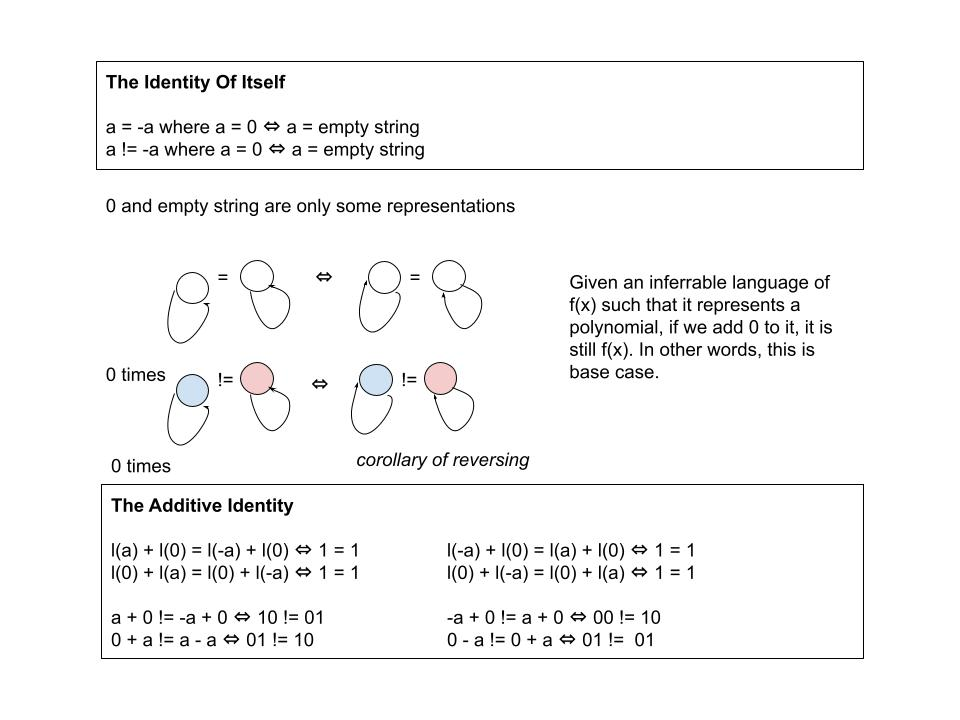
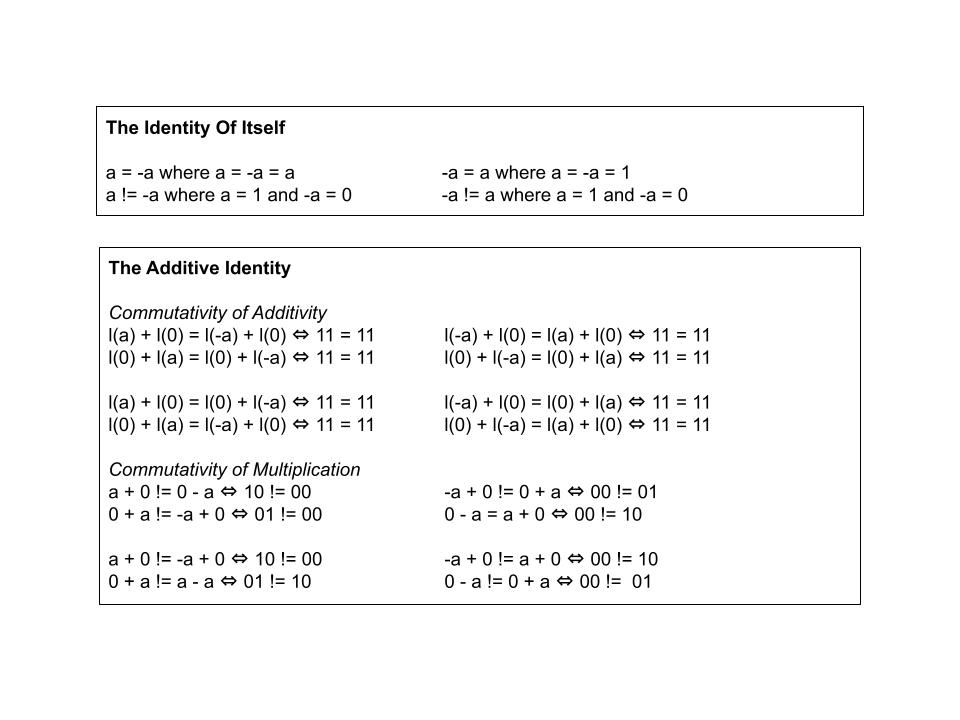
commutativity, identity, inverse, generalization

diff --git a/README.md b/README.md
@@ -38,13 +38,13 @@ Let's apply this idea with the monomial decider and picking function from the fo
 
 ![08LawOfStrings](Resources/08LawOfStrings.jpg)
 
-### 9. Law Of Addition
+### 9. Commutativity Of Addition
 
-![09LawOfAddition](Resources/09LawOfAddition.jpg)
+![09CommutativityOfAddition](Resources/09CommutativityOfAddition.jpg)
 
-### 10. Law Of Multiplication
+### 10. Commutativity Of Multiplication
 
-![10LawOfMultiplication](Resources/10LawOfMultiplication.jpg)
+![10CommutativityOfMultiplication](Resources/10CommutivityOfMultiplication.jpg)
 
 ### 11. Additive Identity
 
@@ -57,6 +57,18 @@ Let's apply this idea with the monomial decider and picking function from the fo
 ### 13. Multiplicative Inverse
 
 ![13MultiplicativeInverse](Resources/13MultiplicativeInverse.jpg)
+
+### 14. Additive Inverse
+
+![14AdditionInverse](Resources/14MultiplicationInverse.jpg)
+
+### 15. Generalized Operations
+
+![15GeneralizedOperations](Resources/GeneralizedOperations.jpg)
+
+### 16. Generalized Communativity
+
+![16GeneralizedCommutativity](Resources/GeneralizedCommutativity.jpg)
 
 -----
 
